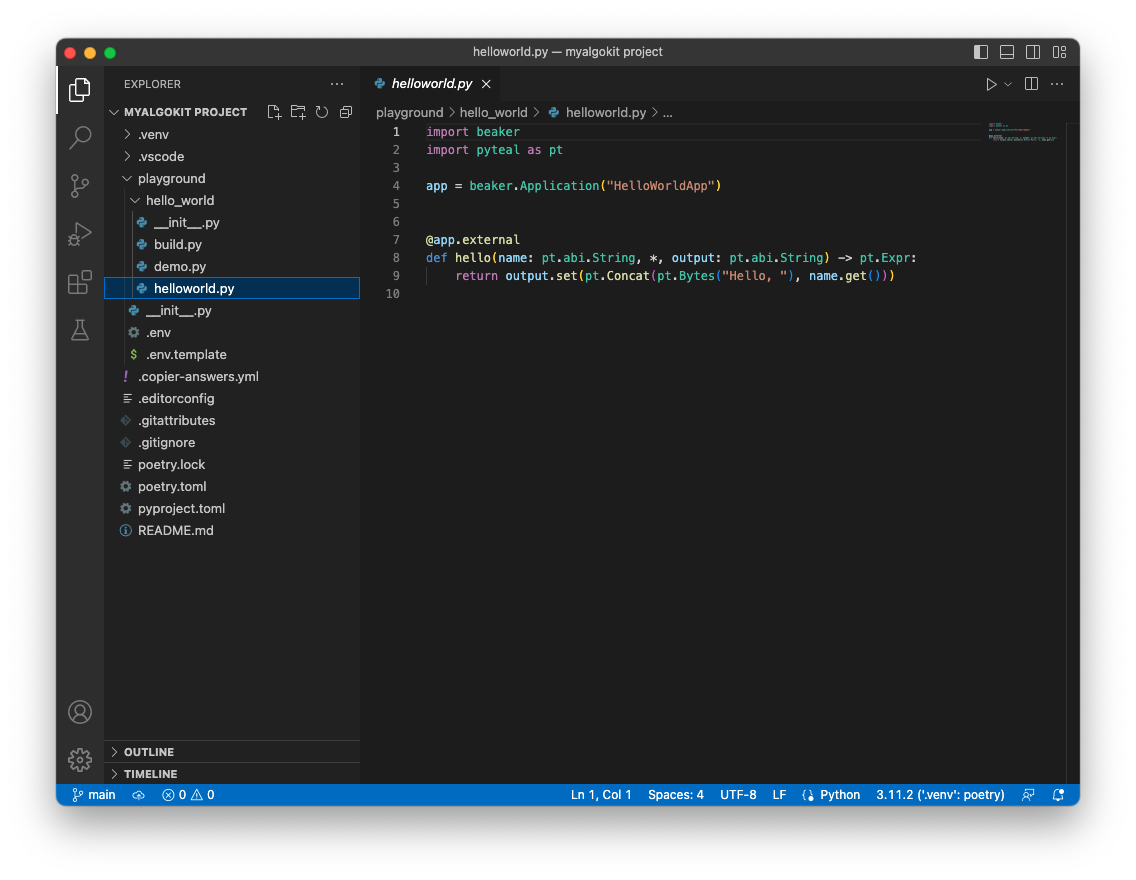
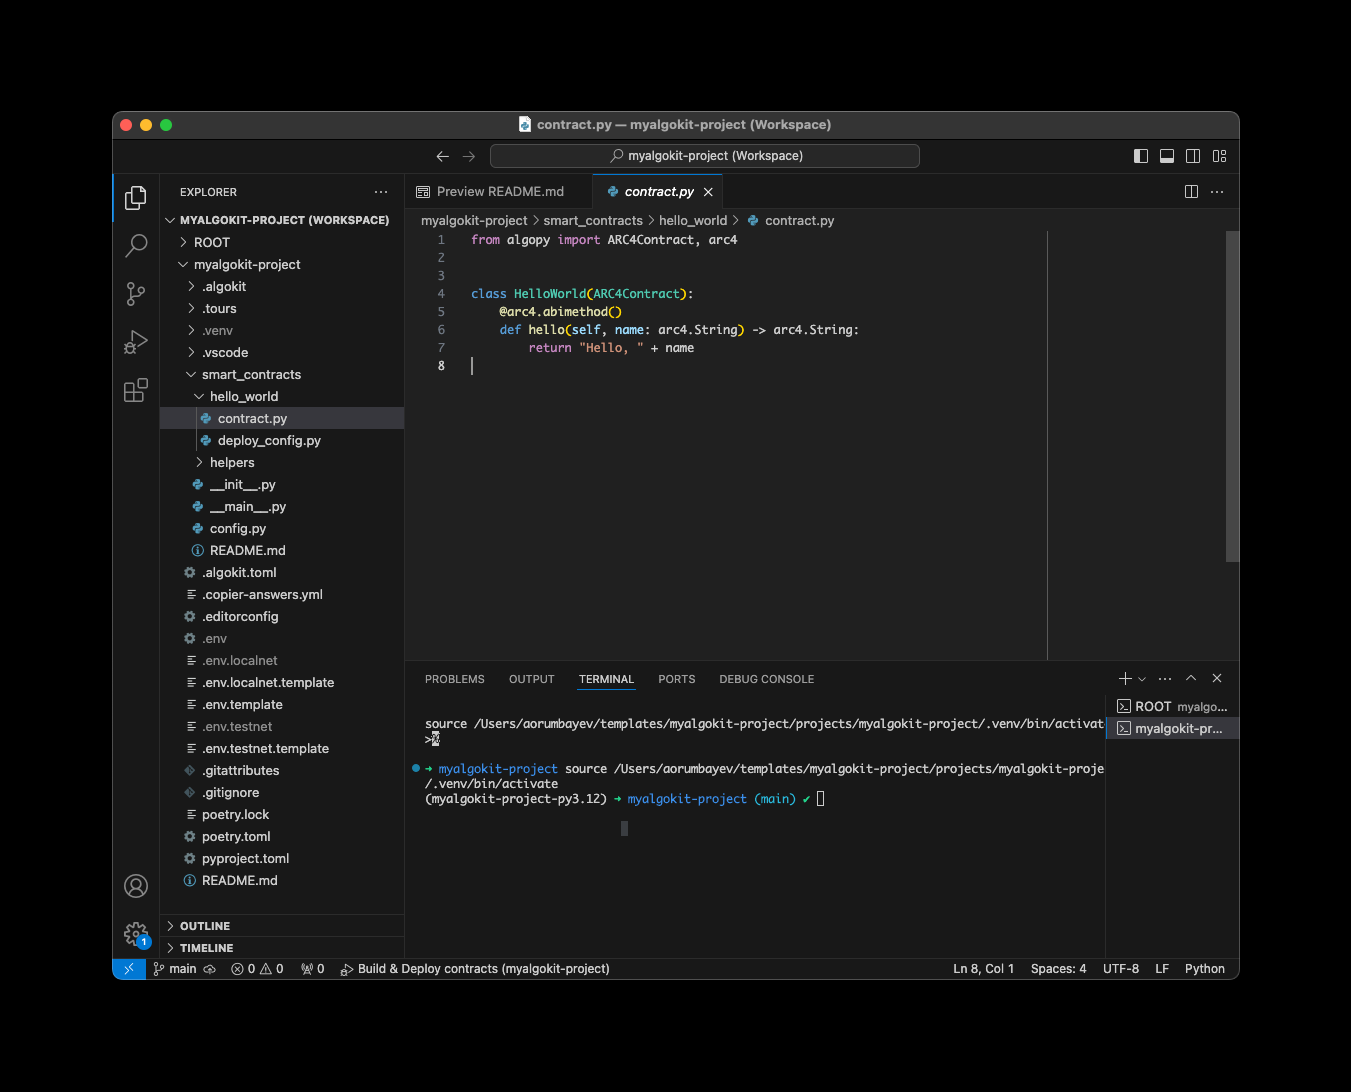
docs: refine quick start (#487)
* docs: refine quick start

* chore: patching ci

* docs: removing redundant images

* chore: testing ci

* chore: patch video ref

* chore: patch video ref

* chore: pr comments

* chore: apply suggestions from code review

* docs: refine docs

* docs: use workspace mode by default, add extra comments on workspace mode structure

* chore: fixing pip audit warning

* chore: pip audit warning

* docs: add note on videos in header

---------

diff --git a/docs/tutorials/intro.md b/docs/tutorials/intro.md
@@ -2,7 +2,7 @@
 
 AlgoKit is the primary tool used by the Algorand community to develop smart contracts on the Algorand blockchain. It provides the capabilities to develop, test and deploy Algorand smart contracts within minutes! This guide is intended to help you setup AlgoKit and to start developing your application.
 
-## Quick start videos
+## Quick start videos 📹
 
 If you prefer videos, take a look at this 10 minute guide to getting started.
 
@@ -10,19 +10,21 @@ If you prefer videos, take a look at this 10 minute guide to getting started.
 
 Detailed video guides for both [Windows](https://www.youtube.com/embed/22RvINnZsRo) and [Mac](https://www.youtube.com/embed/zsurtpCGmgE) are also available.
 
-## Prequisites
+> Please note, the videos above are to be refreshed to cover v2.0 features. For now, its best to follow the instructions below to get started.
+
+## Prequisites ✅
 
 This guide presents installing AlgoKit using an OS agnostic procedure. For OS specific instructions take a look that the [AlgoKit install](https://github.com/algorandfoundation/algokit-cli/blob/main/README.md#install) guide.
 
-Using this procedure requires the the following components be installed already
+Before proceeding, ensure you have the following components installed:
 
 - [Python 3.10](https://www.python.org/downloads/) or higher
-- [PipX](https://pypa.github.io/pipx/#on-linux-install-via-pip-requires-pip-190-or-later)
-- [Git](https://github.com/git-guides/install-git#install-git)
+- [pipx](https://pypa.github.io/pipx/#on-linux-install-via-pip-requires-pip-190-or-later)
+- [git](https://github.com/git-guides/install-git#install-git)
 - [Docker](https://docs.docker.com/desktop/install/mac-install/)
 - [VSCode](https://code.visualstudio.com/download)
 
-## Install AlgoKit
+## Install AlgoKit 🛠
 
 To install AlgoKit, run the following command from a terminal.
 
@@ -34,7 +36,9 @@ After the installation completes, **restart the terminal**.
 
 For more detailed installation documentation, see the [official installation guide](https://github.com/algorandfoundation/algokit-cli#install).
 
-## Verify the Installation
+> Please note, `pipx` is only one of the supported installation methods. You can also install AlgoKit via `brew` and _soon_ `winget` and `snap` as pre-build binaries. Refer to the official installation guide.
+
+## Verify the Installation ✔
 
 To verify AlgoKit Installed correctly run the following.
 
@@ -45,10 +49,10 @@ algokit --version
 Output similar to the following should be displayed:
 
 ```shell
-algokit, version 0.5.0
+algokit, version 2.0.3 # or higher
 ```
 
-## Start a LocalNet
+## Start a LocalNet 🌐
 
 AlgoKit supports using a [local version of the Algorand blockchain](../features/localnet.md). To start an instance of this LocalNet run the following command from the terminal:
 
@@ -60,7 +64,7 @@ This should start an instance of the LocalNet within docker. If you open the Doc
 
 ![Docker Desktop LocalNet Instance](../imgs/localnet.png)
 
-## Create an AlgoKit project
+## Create an AlgoKit project 🆕
 
 Now that AlgoKit is installed, you can rapidly create a new project to get started quickly. This can be done by running:
 
@@ -70,102 +74,98 @@ algokit init
 
 This will launch a guided menu system to create a specific project tailored to your needs. The templates are basic starter applications for various Algorand development scenarios. To read more about templates checkout AlgoKit detailed documentation.
 
-For now we'll use the `playground` template, which is a lightweight starting point for learning and experimentation. You can initialise a project using this template by running:
+For now we'll use the `python` template, which is a lightweight starting point for learning Algorand smart contract development using Algorand Python. You can initialize a project using this template by running:
 
 ```shell
-algokit init -t playground --no-workspace
+algokit init -t python -a preset_name "starter"
 ```
 
 Next, you will be prompted for the name of your project. Finally, select the default value for the rest of the prompts (enter).
 
-Once finished, (if you have it installed) VS Code should automatically be opened with the initialised project and you will be prompted to install appropriate VS Code extensions. This starter app will contain one smart contract (built using the [Beaker](https://beaker.algo.xyz/) smart contract development framework) named `helloworld.py`, in the `hello_world` folder, with one method (`hello`) that takes a `String` and returns a `String`.
+Once finished, (if you have it installed) VS Code should automatically be opened with the initialised project and you will be prompted to install appropriate VS Code extensions. This starter app will contain one smart contract (built using the [Algorand Python](https://algorandfoundation.github.io/puya/) language) named `contract.py`, in the `smart_contracts/hello_world` folder, with one method (`hello`) that takes a `String` and returns a `String`. Notice that within the contract folder, there is a `deploy_config.py` which defines the parameters for deployment of your smart contract to the target chain (Algorand TestNet, Algorand MainNet, Algorand LocalNet or else).
 
 ![AlgoKit Playground Contract](../imgs/algokitplayground.png)
 
-## Run the Demo Application
+## AlgoKit Project structure 🏗
 
-Once the playground project is created, you will notice in the `hello_world` folder a file named `demo.py` which is a simple example of using AlgoKit to deploy and make a call to the `helloworld.py` smart contract on the LocalNet instance started earlier.
+The structure of your fresh algokit project instance will look similar to below:
 
-![AlgoKit Playground Demo](../imgs/algokitdemo.png)
-
-Right clicking on this file and selecting `Run Python File in Terminal` will deploy the `HelloWorldApp` smart contract and then call it passing the parameter `name` with a value of `Beaker`. Alternatively, you can hit F5 (or whatever keyboard shortcut is set in VS Code for running the debugger) while you are viewing the `helloworld.py` file and it will:
-
-1. Start LocalNet
-2. Build the smart contract
-3. Deploy and call the smart contract (`demo.py`)
-
-This should produce something similiar to the following in the VSCode terminal.
-
-```shell
-(playground-py3.11) User@Algo-User-MBP myalgokit project % "/Users/user/code/algokit/myalgokit pro
-ject/.venv/bin/python" "/Users/user/code/algokit/myalgokit project/playground/hello_world/demo.py"
-Deployed app in txid SBNIJYZUOXVPXDFJHAVDDCO5TQ4WZ7P37QOOQM6CSVSMIURETHNQ
-        App ID: 11
-        Address: 377KDIVHB7K2LFFJIPUPQFWJGVD36MAP4EI6Y2HAGRAW6JPK4MDUBC3YVY
-
-Hello, Beaker
+```bash
+.
+├── .algokit.toml # Configuration for AlgoKit projects in the workspace.
+├── README.md # Quick start guide for the AlgoKit Workspace.
+├── {your_workspace|project_name}.code-workspace
+└── projects
+    └── {your_project_name} # Root directory for the smart contract project. To add more projects into your algokit workspace run 'algokit init' from the root of your workspace repository.
+        ├── README.md # Quick start on Algorand Python smart contract template based project.
+        ├── .algokit # Hidden folder for AlgoKit AVM debugger and custom generators.
+        ├── .algokit.toml # Project-specific commands and custom generator references.
+        ├── poetry.lock
+        ├── poetry.toml # Dependency definitions for {your_project_name}.
+        ├── pyproject.toml # Project definitions for {your_project_name}.
+        └── smart_contracts
+            ├── README.md # Guide for adding new smart contracts.
+            ├── ...
+            ├── hello_world # Contract logic for 'hello_world'.
+            │   ├── contract.py # Contract logic.
+            │   └── deploy_config.py # Deployment logic for 'hello_world'.
+            └── helpers # Helper functions for contract build and deployment.
 ```
+
+Additionally, each official smart contract template includes an interactive codespace walkthrough powered by [CodeTour](https://marketplace.visualstudio.com/items?itemName=vsls-contrib.codetour).
+
+To start the interactive walkthrough, install the extension and click on the green play button in the left bottom corner of the `Explorer` pane as demonstrated on the screenshot below (See `Getting Started with Your AlgoKit Project`).
+
+![CodeTour Play Button](../imgs/algokitcodetour.png)
+
+Upon execution, the walkthrough will guide you through the key components of your fresh AlgoKit project, which is an important prerequisite to learn before running and deploying your first smart contract. Certainly, not because its hard to learn, but because it will save you a lot of time and effort having the correct foundations.
+
+## Run the Demo Application 🏃♂
+
+Once the `Algorand Python` based project is created, you can get started by building and deploying your first smart contract. There are a few possible ways to do so as demonstrated on the following video.
+
+[![Watch the video](https://ipfs.algonode.xyz/ipfs/Qmc9mRaPoDyhUFmek4ETxVfKUKzUg9pf3Tss5xwkBGdQis)](https://ipfs.algonode.xyz/ipfs/Qma6gNqxsSFc9Jbh8kBTZyVLv5gqFj1xnrsjoeT6MAAwCw/)
 
 The App ID of the deployed contract and its Algorand address is displayed, followed by the message returned from the smart contract call (`Hello, Beaker`).
 
-At this point you have deployed a simple contract to an Algorand network and called it successfully!
+1. Start LocalNet
+2. Build the smart contract. Notice how a folder named `artifacts` is created with the [AVM (Algorand Virtual Machine)](https://developer.algorand.org/docs/get-details/dapps/avm/) related artifacts for deploying your smart contract.
+3. Deploy and call the `HelloWorld` smart contract (from `contract.py` file).
 
-Additionally, you can find the native TEAL smart contract code and the appropriate smart contract manifest JSON files have been output to the `artifacts` folder.
+After execution, the `App ID` of the deployed contract and its Algorand address are displayed, followed by the message returned from the smart contract call (`Hello, world`).
 
-![AlgoKit Playground Demo](../imgs/algokitartifacts.png)
+At this point you have deployed a simple contract to a LocalNet Algorand network (running in your Docker environment) and called it successfully!
 
-Running the `build.py` python file will also generate these artifacts without deploying. These files can be used by tools like [Dappflow](https://dappflow.org/), [goal](https://developer.algorand.org/docs/clis/goal/goal/), etc. to deploy your smart contract to the various Algorand networks.
+Additionally, you can find the native AVM related artifacts and the appropriate smart contract manifest JSON files have been output to the `artifacts` folder. Note that in this example, AVM bytecode is compiled using the `PuyaPy` compiler, which is what `Algorand Python` relies on to compile your Python smart contract code to TEAL ([Transaction Execution Approval Language](https://developer.algorand.org/docs/get-details/dapps/avm/teal/)).
 
-## Using Dappflow
+### Using AlgoKit CLI to build and deploy contracts 🛠
 
-Dappflow is a web-based user interface that let's you visualise accounts, transactions, assets and applications on an Algorand network and also provides ability to deploy and call smart contracts. This works for TestNet, MainNet and also LocalNet. Furthermore, you can also create and fund accounts on LocalNet. While AlgoKit surfaces both a programming interface and a command line interface for interacting with Algorand, it also allows you to quickly open Dappflow so you can see what's happening visually.
+When using official AlgoKit templates via `algokit init`, you can manage your projects using the AlgoKit CLI at the convenience of your terminal.
 
-Dappflow can be launched from AlgoKit by running the following command from the VS Code terminal.
+For example, to achieve the same results as in the demo earlier, build and deploy the `HelloWorld` contract from the `contract.py` file by running the following command from the terminal:
 
 ```shell
-algokit explore
+algokit project run build
 ```
 
-By default it will open Dappflow to point to LocalNet (It will be displayed as `sandnet-v1` in the upper left hand corner.), but you can pass in parameters to point it to TestNet and MainNet too.
+This command will recompile your python contracts from `contract.py` and produce the necessary artefacts for deploying your contract.
 
-This command will launch your default web browser and load the Dappflow web application.
+```shell
+algokit project deploy localnet
+```
 
-**Note:** If you are using Safari, then it won't work against LocalNet and you will need to open it in a different browser.
+This will then deploy to your LocalNet instance and display the same output as in the earlier demo.
 
-![AlgoKit Dappflow](../imgs/dappflow1.png)
+> Please note, as highlighted in the [structure](#algokit-project-structure) section above, the `project run ...` commands are defined in the respective `.algokit.toml` file under `[project]` sections.
 
-### Create test account
+## Next steps 🚶♂
 
-To issue commands against the LocalNet network you need an account with ALGOs in it. Dappflow lets you easily create one.
+We have only covered a tiny fraction of the capabilities of the AlgoKit CLI and its related ecosystem of templates and utilities for an efficient developer experience.
 
-Select `Dev Wallets` from the left menu and click on the `Create wallet` button. This will create an account on the LocalNet and fund it with 100 Algos that can be used to test with.
-
-![AlgoKit Dappflow](../imgs/dappflow2.png)
-
-In the bottom left hand corner of the menu, select `Connect wallet` and you will be prompted with several wallet choices. Choose the `Dev Wallet` option. This will connect the account you just created to Dappflow so you can use that account for signing transactions from the Dappflow user interface.
-
-### Deploy the Hello World application
-
-To deploy the built Beaker smart contract application, select the `Beaker studio` menu and click on the import beaker app. Select `File` and `Upload file`, browse to the artifacts created in the previous section of this guide. Select the `application.json` manifest file. This will load the specific manifest file for the Hello World sample application.
-
-![AlgoKit Dappflow](../imgs/dappflow3.png)
-
-To deploy this application again, select the `Create app` button followed by the `Create` button from the popup. You should get a `Transaction successful` message with the option to view the specific transaction in the explorer. Close out of the popup and then scroll down to the `ABI` section of the page. The `hello` method should be displayed with an execute button beside it.
-
-![AlgoKit Dappflow](../imgs/dappflow4.png)
-
-Click on the Execute button and a popup will be displayed allowing you to enter the parameter that we defined in the `HelloWorldApp` smart contract.
-
-![AlgoKit Dappflow](../imgs/dappflow5.png)
-
-Enter a string in the parameter and click on `Execute`. You should get get a confirmation that the method executed properly and what the smart contract returned.
-
-![AlgoKit Dappflow](../imgs/dappflow6.png)
-
-You have now successfully deployed and executed a smart contract method call using Dappflow!
-
-## Next steps
-
-- To learn more about AlgoKit and what you can do with it, checkout the [AlgoKit documentation](../algokit.md).
-- To learn more about Beaker, take a look at the [Beaker documentation](https://beaker.algo.xyz/).
+- To get the most out of `AlgoKit`, we recommend to get started with learning more about AlgoKit and what you can do with it by checking out our extensive [AlgoKit CLI documentation](../algokit.md).
+- Explore the `README.md` files at the root of any project created via `algokit init`. All official AlgoKit templates include detailed quick started guides, an interactive code tour and various presets which can be customized to your needs.
+- To learn more about `Algorand Python`, take a look at the [documentation](https://algorandfoundation.github.io/puya/).
+- To learn more about the commands demonstrated in this tutorial, refer to [`init`](../features/init.md) and [`project`](../features/project.md) to get a comprehensive understanding of their further capabilities.
+- If you'd like to learn more on structuring your `AlgoKit Project` as a monorepo, refer to `workspace` mode as described in [`init`](../features/init.md#workspaces-vs-standalone-projects). You can also pass the `--no-workspace` flag to setup a standalone algokit project, if preferred.
+- If you'd like to **create your own** `AlgoKit` template, refer to the [template tutorial](./algokit-template.md).
 - More information on Algorand smart contracts is also available in the [smart contract documentation](https://developer.algorand.org/docs/get-details/dapps/smart-contracts/).
